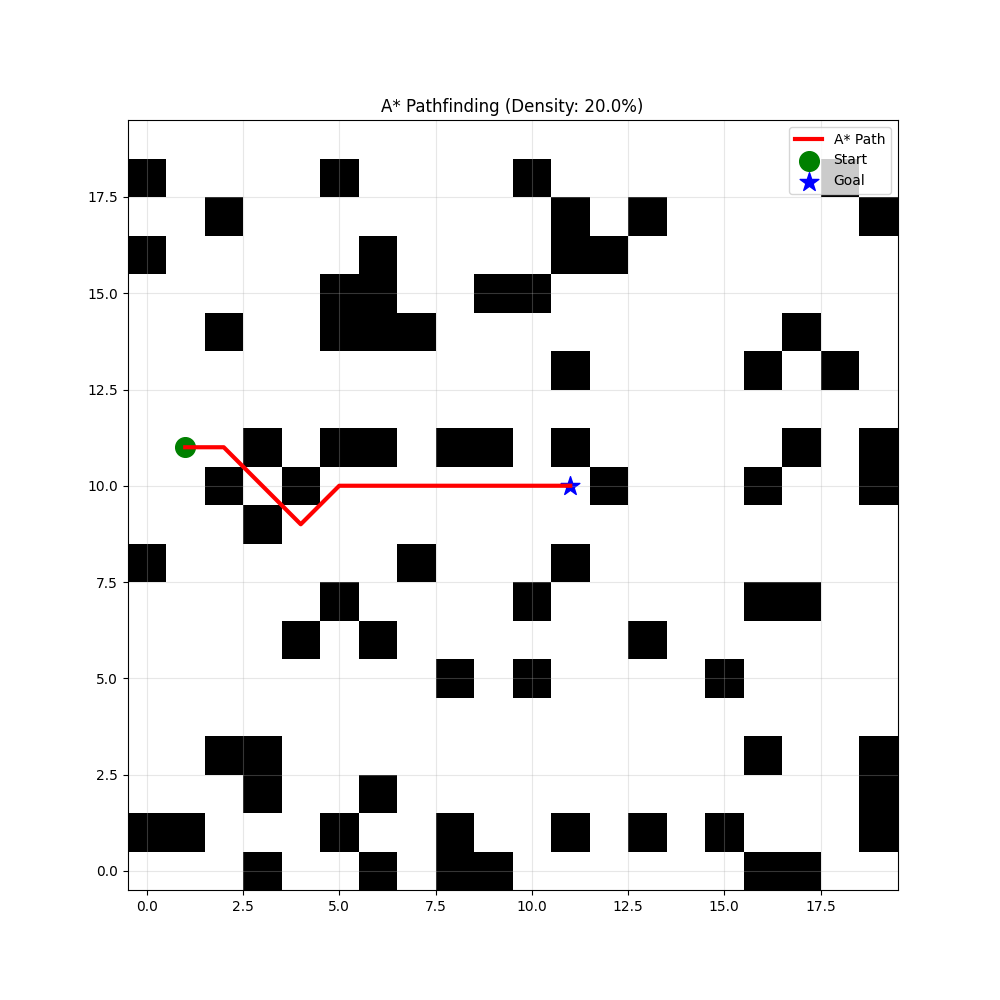
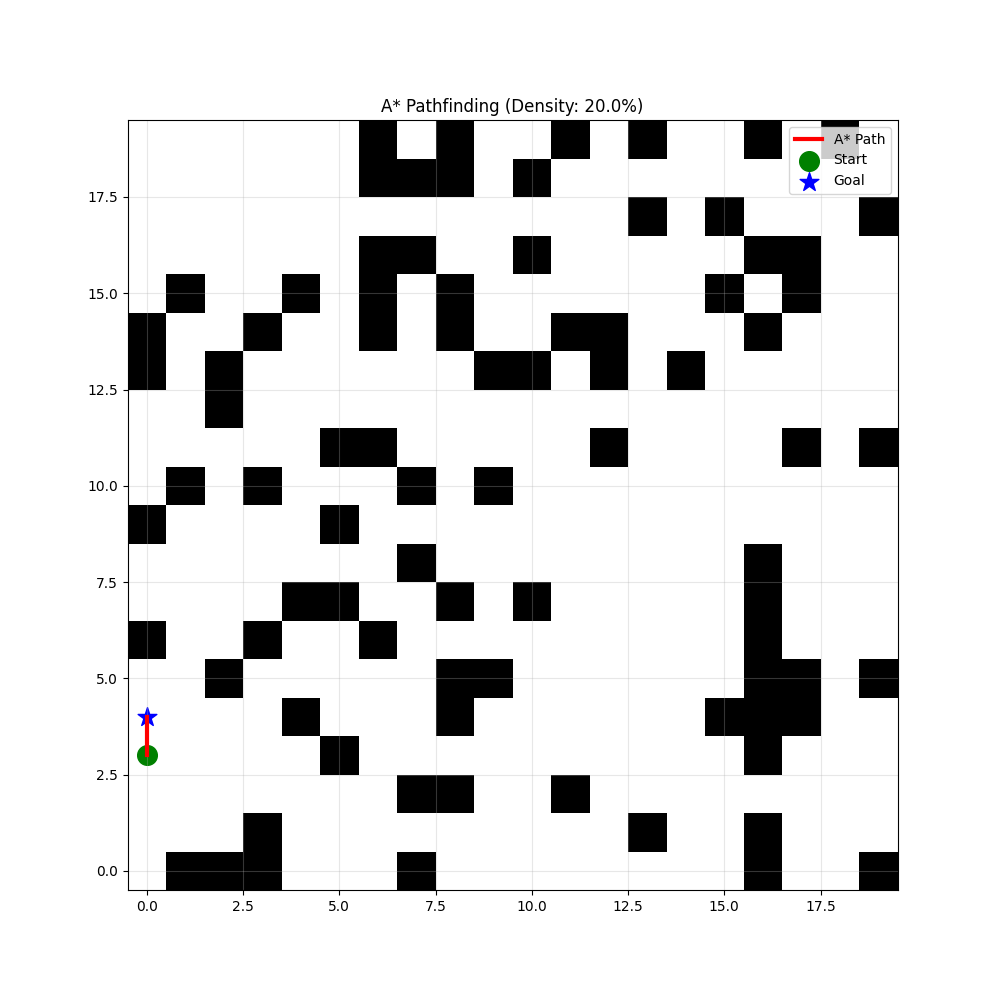
Vercel deployment: Refactor to serverless functions, add sim_logic.py and vercel.json

diff --git a/templates/index.html b/templates/index.html
@@ -707,23 +707,22 @@
             if (obsStr) params += `&manual_obs=${obsStr}`;
             if (type === 'pid') params += `&altitude=${document.getElementById('pid-alt').value}`;
 
-            fetch(`/run/${type}${params}`).then(res => res.json()).then(data => {
-                if (!data.success) { status.innerText = 'Error!'; return; }
-                fetch(`/static/${type}_data.json?` + Date.now()).then(res => res.json()).then(sim => {
-                    const path = sim.path || sim; if (path.length === 0) return status.innerText = 'Blocked!';
-                    
-                    if (type === 'astar') drawPath(path);
+            fetch(`/run/${type}${params}`).then(res => res.json()).then(res => {
+                if (!res.success) { status.innerText = 'Error!'; return; }
+                const sim = res.data;
+                const path = sim.path || sim; if (path.length === 0) return status.innerText = 'Blocked!';
+                
+                if (type === 'astar') drawPath(path);
 
-                    if (document.getElementById('auto-obs-toggle').checked && sim.obstacles) {
-                        autoObstacles.forEach(o => scene.remove(o)); autoObstacles = [];
-                        sim.obstacles.forEach(o => {
-                            const h = 2 + Math.random()*3;
-                            const obs = new THREE.Mesh(new THREE.BoxGeometry(1.1, h, 1.1), new THREE.MeshStandardMaterial({color: 0x334155}));
-                            obs.position.set(o.x - 9.5, h/2, o.z - 9.5); scene.add(obs); autoObstacles.push(obs); collidableObjects.push(obs); 
-                        });
-                    }
-                    status.innerText = 'Sim Active'; isAutoPilot = true; toggleAuto();
-                });
+                if (document.getElementById('auto-obs-toggle').checked && sim.obstacles) {
+                    autoObstacles.forEach(o => scene.remove(o)); autoObstacles = [];
+                    sim.obstacles.forEach(o => {
+                        const h = 2 + Math.random()*3;
+                        const obs = new THREE.Mesh(new THREE.BoxGeometry(1.1, h, 1.1), new THREE.MeshStandardMaterial({color: 0x334155}));
+                        obs.position.set(o.x - 9.5, h/2, o.z - 9.5); scene.add(obs); autoObstacles.push(obs); collidableObjects.push(obs); 
+                    });
+                }
+                status.innerText = 'Sim Active'; isAutoPilot = true; toggleAuto();
             });
         }
 

diff --git a/sim_logic.py b/sim_logic.py
@@ -1,0 +1,228 @@
+import numpy as np
+import heapq
+import random
+import json
+
+# ═══════════════════════════════════════════════════
+# A* PATHFINDING LOGIC
+# ═══════════════════════════════════════════════════
+
+class Node:
+    def __init__(self, position, parent=None):
+        self.position = position
+        self.parent = parent
+        self.g = 0 
+        self.h = 0 
+        self.f = 0 
+
+    def __eq__(self, other):
+        return self.position == other.position
+    
+    def __lt__(self, other):
+        return self.f < other.f
+
+def astar_core(grid, start, end, weight=3.0):
+    start_node = Node(start, None)
+    end_node = Node(end, None)
+    open_list = []
+    closed_list = set()
+    # Heap stores (f, node)
+    heapq.heappush(open_list, (0, start_node))
+
+    while open_list:
+        # Pop node with lowest f
+        _, current_node = heapq.heappop(open_list)
+        closed_list.add(current_node.position)
+
+        if current_node.position == end_node.position:
+            path = []
+            curr = current_node
+            while curr:
+                path.append(curr.position)
+                curr = curr.parent
+            return path[::-1]
+
+        for new_position in [(0, -1), (0, 1), (-1, 0), (1, 0), (-1, -1), (-1, 1), (1, -1), (1, 1)]:
+            node_pos = (current_node.position[0] + new_position[0], current_node.position[1] + new_position[1])
+
+            if node_pos[0] >= len(grid) or node_pos[0] < 0 or node_pos[1] >= len(grid[0]) or node_pos[1] < 0:
+                continue
+            if grid[node_pos[0]][node_pos[1]] != 0:
+                continue
+
+            child = Node(node_pos, current_node)
+            if child.position in closed_list:
+                continue
+
+            dx = abs(child.position[0] - current_node.position[0])
+            dy = abs(child.position[1] - current_node.position[1])
+            step_cost = 1.414 if (dx == 1 and dy == 1) else 1.0
+            
+            child.g = current_node.g + step_cost
+            h_dx = abs(child.position[0] - end_node.position[0])
+            h_dy = abs(child.position[1] - end_node.position[1])
+            child.h = float((h_dx + h_dy) + (1.414 - 2) * min(h_dx, h_dy))
+            
+            # Tie-breaker
+            p_dx = child.position[0] - start_node.position[0]
+            p_dy = child.position[1] - start_node.position[1]
+            g_dx = end_node.position[0] - start_node.position[0]
+            g_dy = end_node.position[1] - start_node.position[1]
+            cross = abs(p_dx * g_dy - g_dx * p_dy)
+            child.h += cross * 0.001
+            
+            child.f = child.g + (weight * child.h)
+
+            # Check if this node is already in open_list with a lower g
+            if any(child.position == open_node[1].position and child.g >= open_node[1].g for open_node in open_list):
+                continue
+
+            heapq.heappush(open_list, (child.f, child))
+    return None
+
+def run_astar_sim(params):
+    density = float(params.get('density', 0.2))
+    start_str = params.get('start', '0,0')
+    goal_str = params.get('goal', '19,19')
+    manual_obs = params.get('manual_obs', '')
+
+    grid_size = 20
+    grid = np.zeros((grid_size, grid_size))
+    
+    s_coords = [int(float(x)) for x in start_str.split(',')]
+    g_coords = [int(float(x)) for x in goal_str.split(',')]
+    start = (s_coords[1], s_coords[0]) 
+    goal = (g_coords[1], g_coords[0])
+
+    if manual_obs:
+        for obs in manual_obs.split(';'):
+            if obs:
+                c, r = [int(float(x)) for x in obs.split(',')]
+                if 0 <= r < grid_size and 0 <= c < grid_size:
+                    grid[r, c] = 1
+
+    # Random obstacles
+    for r in range(grid_size):
+        for c in range(grid_size):
+            if grid[r, c] == 0:
+                if abs(r - start[0]) <= 1 and abs(c - start[1]) <= 1: continue
+                if abs(r - goal[0]) <= 1 and abs(c - goal[1]) <= 1: continue
+                if random.random() < density:
+                    grid[r, c] = 1
+
+    path = astar_core(grid, start, goal)
+    
+    resp = {
+        "start": {"x": float(start[1]), "z": float(start[0])},
+        "goal": {"x": float(goal[1]), "z": float(goal[0])},
+        "obstacles": []
+    }
+    
+    for r in range(grid_size):
+        for c in range(grid_size):
+            if grid[r, c] == 1:
+                resp["obstacles"].append({"x": float(c), "y": 0.5, "z": float(r)})
+    
+    resp["path"] = [{"x": float(p[1]), "y": 0.5, "z": float(p[0])} for p in path] if path else []
+    
+    # NEW: Write to disk for local Webots support (optional on Vercel)
+    try:
+        with open('astar_data.json', 'w') as f:
+            json.dump(resp, f)
+    except:
+        pass # Ignore errors on read-only filesystems like Vercel
+        
+    return resp
+
+# ═══════════════════════════════════════════════════
+# PID ALTITUDE LOGIC
+# ═══════════════════════════════════════════════════
+
+class PIDController:
+    def __init__(self, kp, ki, kd, setpoint):
+        self.kp, self.ki, self.kd = kp, ki, kd
+        self.setpoint = setpoint
+        self.prev_error = 0
+        self.integral = 0
+
+    def compute(self, measurement, dt):
+        error = self.setpoint - measurement
+        self.integral += error * dt
+        derivative = (error - self.prev_error) / dt
+        self.prev_error = error
+        return (self.kp * error) + (self.ki * self.integral) + (self.kd * derivative)
+
+def run_pid_sim(params):
+    target_alt = float(params.get('altitude', 10.0))
+    wind = float(params.get('wind', 0.0))
+    
+    dt, duration = 0.1, 10.0
+    steps = int(duration / dt)
+    
+    pid = PIDController(15.0, 0.5, 8.0, target_alt)
+    alt, vel, mass, grav = 0.0, 0.0, 1.0, 9.81
+    
+    traj = []
+    for i in range(steps):
+        t = i * dt
+        out = pid.compute(alt, dt)
+        noise = (random.random() - 0.5) * wind
+        thrust = max(0, min(out + (mass * grav) + noise, 40.0))
+        
+        accel = (thrust - (mass * grav)) / mass
+        vel += accel * dt
+        alt += vel * dt
+        if alt < 0: alt, vel = 0, 0
+        
+        traj.append({"x": 0, "y": float(alt), "z": 0, "t": float(t)})
+    
+    result = {"path": traj}
+    try:
+        with open('pid_data.json', 'w') as f:
+            json.dump(traj, f)
+    except:
+        pass
+        
+    return result
+
+# ═══════════════════════════════════════════════════
+# SLAM LOGIC
+# ═══════════════════════════════════════════════════
+
+def run_slam_sim(params):
+    noise = float(params.get('noise', 0.1))
+    drift = float(params.get('drift', 0.08))
+    
+    dt, duration = 0.1, 10.0
+    steps = int(duration / dt)
+    
+    true_pos = np.array([0.0, 2.0])
+    est_pos = np.array([0.0, 2.0])
+    traj = []
+    
+    for i in range(steps):
+        # Move
+        vel = np.array([1.0, 0.0])
+        actual_vel = vel + np.random.normal(0, noise, 2)
+        true_pos += actual_vel * dt
+        est_pos += vel * dt
+        
+        # Drift
+        true_pos[1] += (random.random() - 0.5) * drift
+        
+        # Sense & Correct (every 3 steps)
+        if i % 3 == 0:
+            d_left = true_pos[1]
+            d_right = 4.0 - d_left
+            est_pos[1] = (d_left + (4.0 - d_right)) / 2
+            
+        traj.append({"x": float(true_pos[0]), "y": 1.0, "z": float(true_pos[1])})
+        
+    result = {"path": traj}
+    try:
+        with open('slam_data.json', 'w') as f:
+            json.dump(traj, f)
+    except:
+        pass
+        
+    return result

diff --git a/server.py b/server.py
@@ -1,14 +1,9 @@
-from flask import Flask, render_template, jsonify, send_from_directory
-import subprocess
-import os
+from flask import Flask, render_template, jsonify, request
+from sim_logic import run_astar_sim, run_pid_sim, run_slam_sim
 
 # Serve static files from the current directory
 app = Flask(__name__, static_url_path='/static', static_folder='.')
 app.config['TEMPLATES_AUTO_RELOAD'] = True
-app.jinja_env.auto_reload = True
-
-# Directory where the plots are saved
-BASE_DIR = os.path.dirname(os.path.abspath(__file__))
 
 @app.route('/')
 def index():
@@ -16,49 +11,31 @@ def index():
 
 @app.route('/run/<sim_type>')
 def run_simulation(sim_type):
-    from flask import request
-    scripts = {
-        'pid': 'pid_altitude_controller.py',
-        'astar': 'astar_navigation.py',
-        'slam': 'gps_denied_slam.py'
+    # Map sim types to their logic functions
+    sim_funcs = {
+        'astar': run_astar_sim,
+        'pid': run_pid_sim,
+        'slam': run_slam_sim
     }
     
-    if sim_type in scripts:
-        script_path = os.path.join(BASE_DIR, scripts[sim_type])
-        cmd = ['python', script_path]
-        
-        # Map web params to CLI args
-        if sim_type == 'pid':
-            cmd += ['--altitude', request.args.get('altitude', '10.0')]
-            cmd += ['--wind', request.args.get('wind', '0.0')]
-        elif sim_type == 'astar':
-            cmd += ['--density', request.args.get('density', '0.2')]
-            cmd += ['--start', request.args.get('start', '0,0')]
-            cmd += ['--goal', request.args.get('goal', '19,19')]
-            cmd += ['--manual_obs', request.args.get('manual_obs', '')]
-        elif sim_type == 'slam':
-            cmd += ['--noise', request.args.get('noise', '0.1')]
-            cmd += ['--drift', request.args.get('drift', '0.08')]
-
-        # Share config with Webots
-        config_path = os.path.join(BASE_DIR, 'dynamic_config.json')
-        config_data = {
-            'sim_type': sim_type,
-            'params': {k: v for k, v in request.args.items()}
-        }
-        with open(config_path, 'w') as f:
-            import json
-            json.dump(config_data, f)
-
+    if sim_type in sim_funcs:
         try:
-            # Run the python script
-            subprocess.run(cmd, check=True, cwd=BASE_DIR)
-            return jsonify({'success': True})
+            # Execute simulation logic directly
+            result = sim_funcs[sim_type](request.args)
+            
+            # Return JSON directly to the frontend
+            return jsonify({
+                'success': True,
+                'data': result
+            })
         except Exception as e:
             return jsonify({'success': False, 'error': str(e)})
     
     return jsonify({'success': False, 'error': 'Invalid simulation type'})
 
+# For Vercel deployment
+app = app
+
 if __name__ == '__main__':
     print("Dashboard starting at http://127.0.0.1:5000")
-    app.run(debug=False, port=5000)
+    app.run(debug=True, port=5000)
